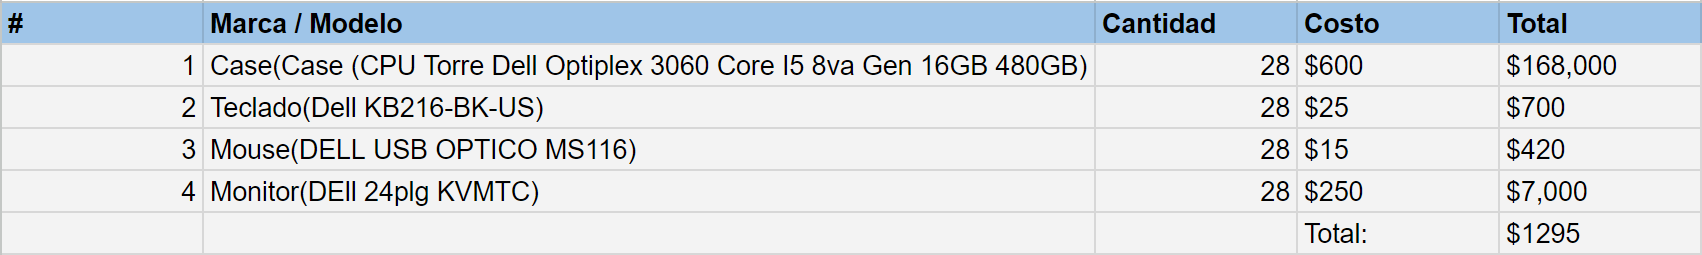
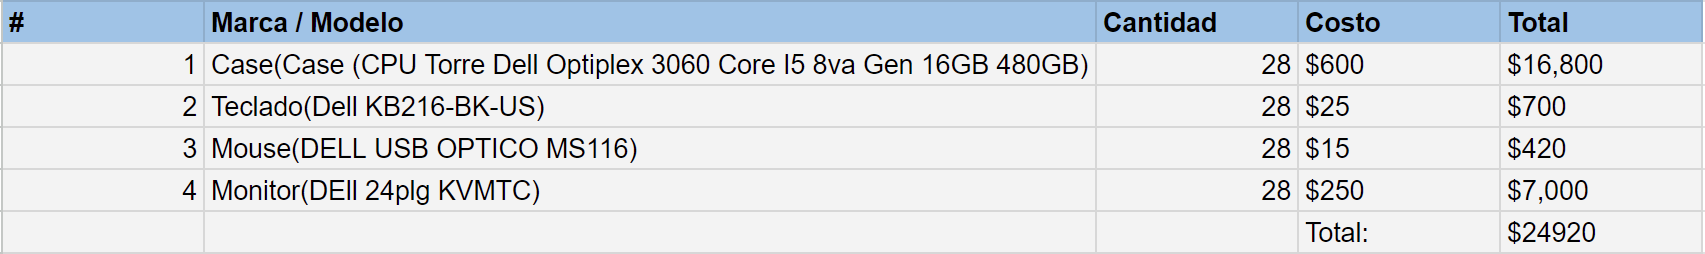
corregi monto presupuesto final

diff --git a/V/Esquema y presupuesto.html b/V/Esquema y presupuesto.html
@@ -136,7 +136,7 @@ header img {
     </div>
 
     <h1 id="presupuesto-final">PRESUPUESTO FINAL</h1>
-    <h1 class="monto">$2124</h1>
+    <h1 class="monto">$25,749</h1>
 
 </body>
 </html>
